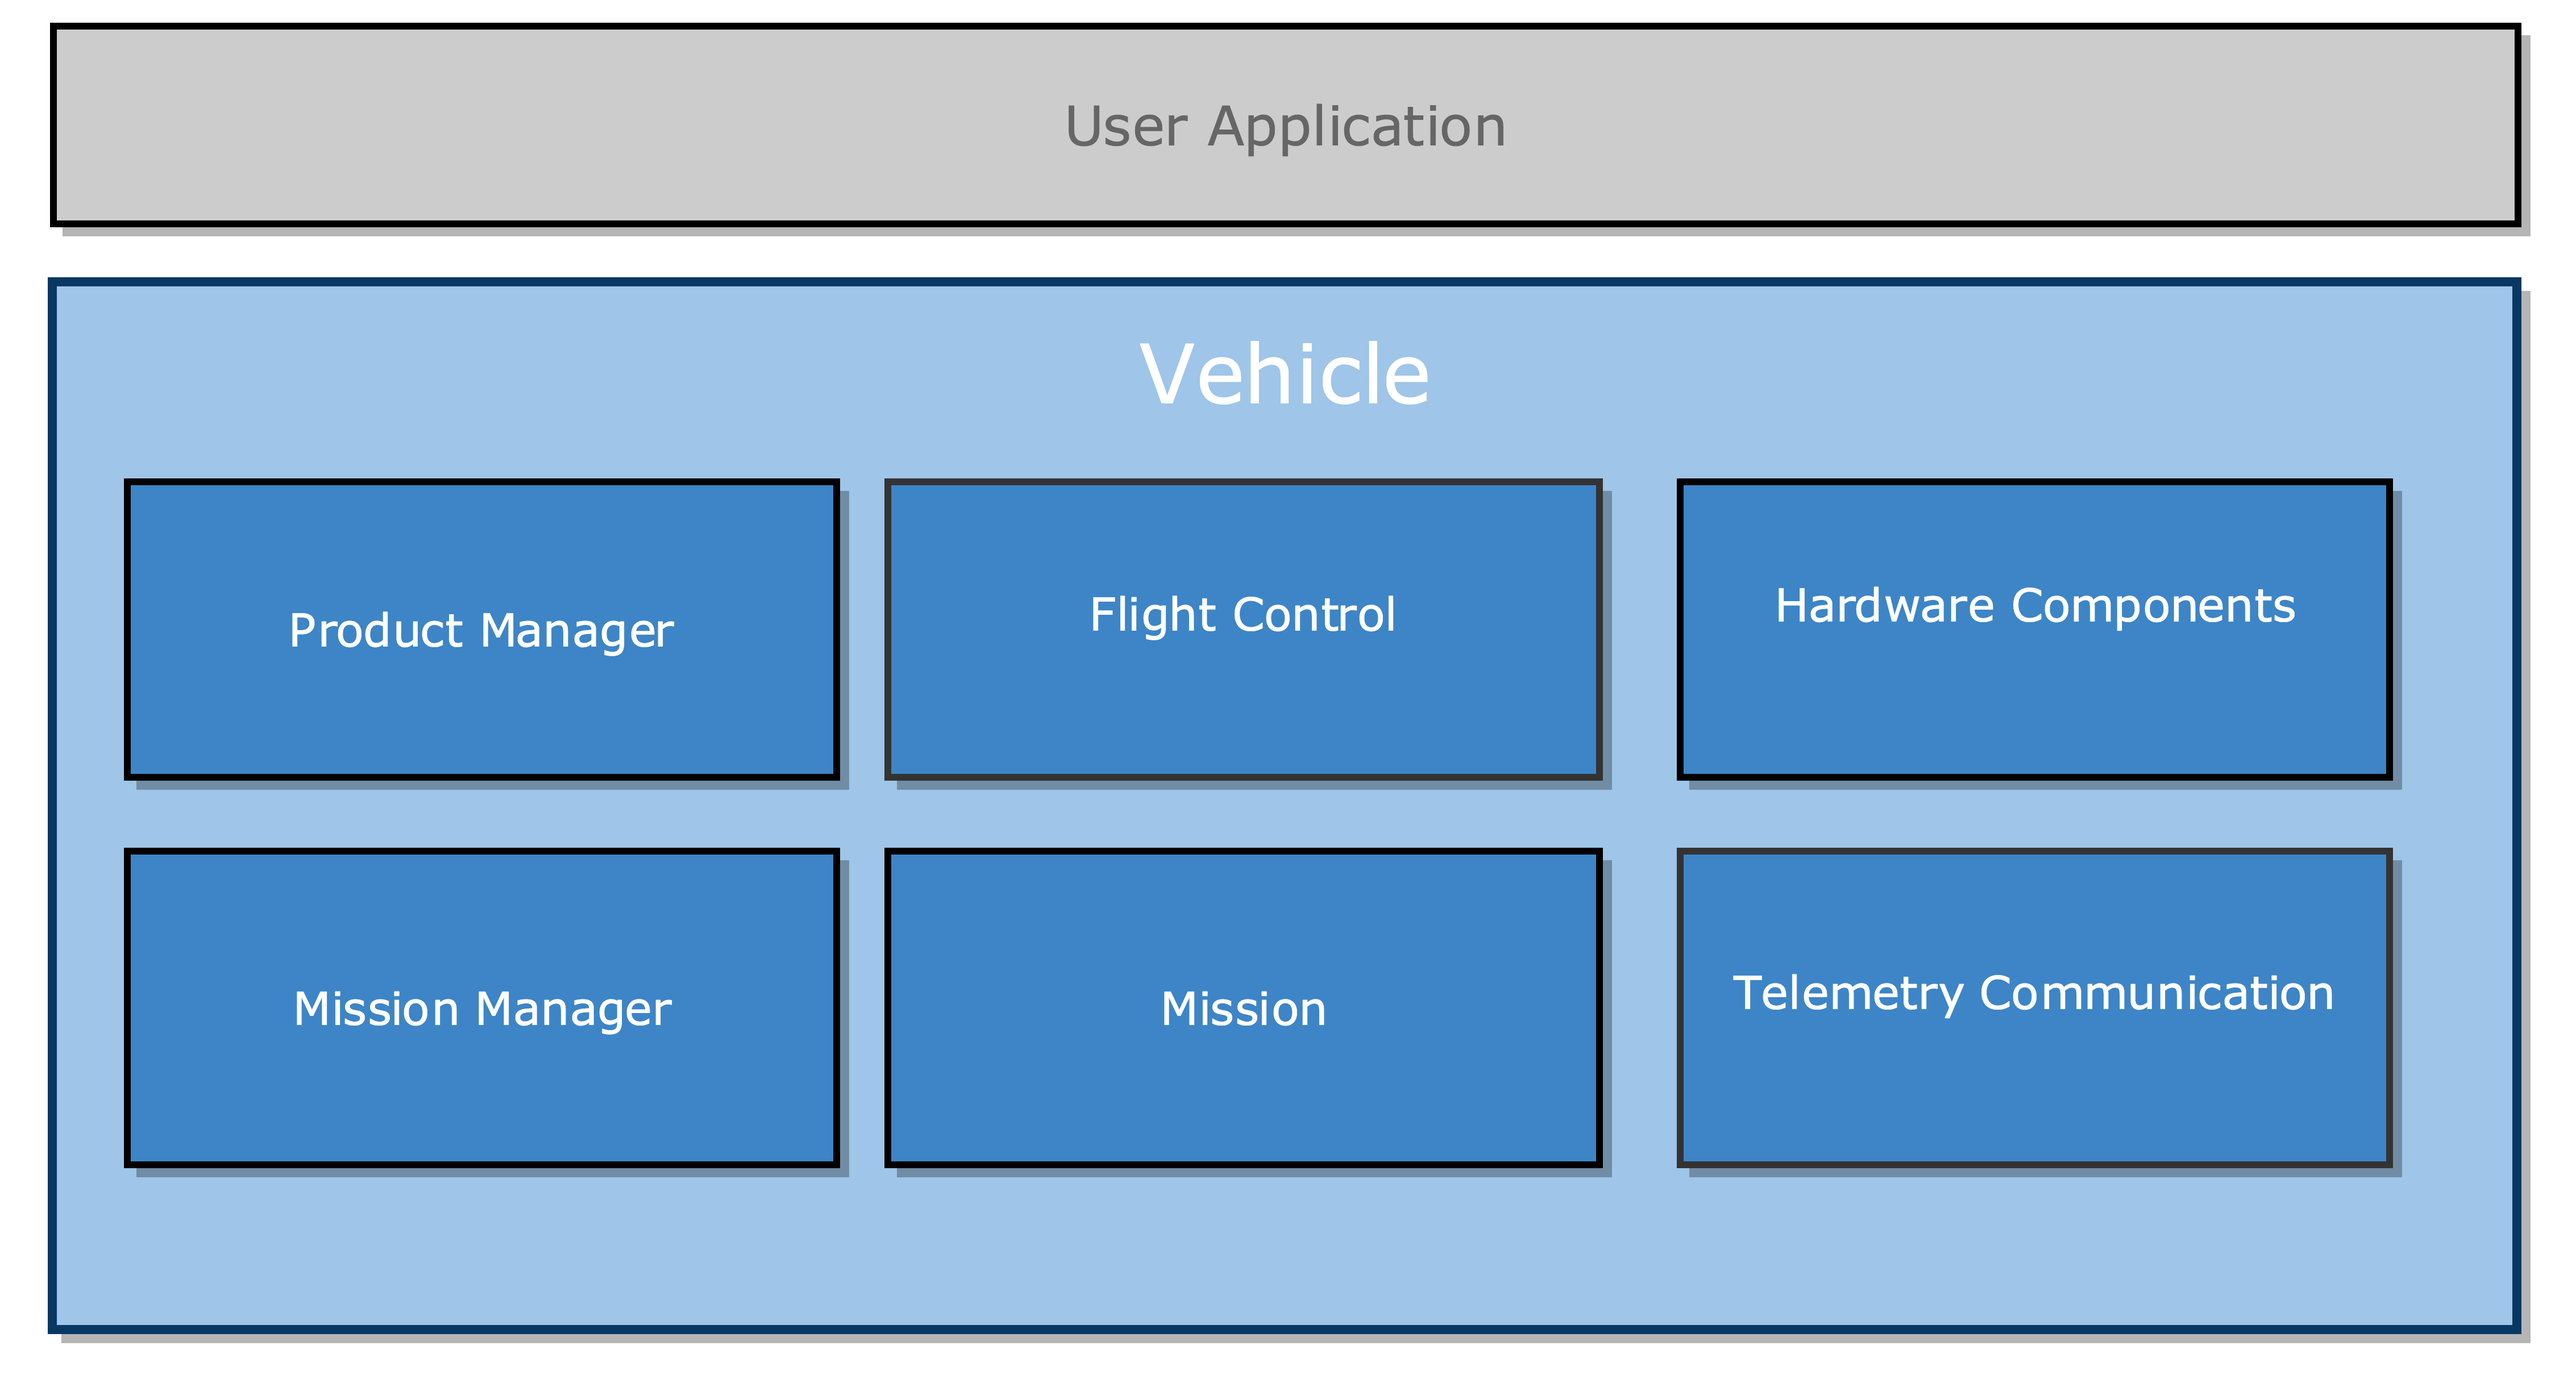
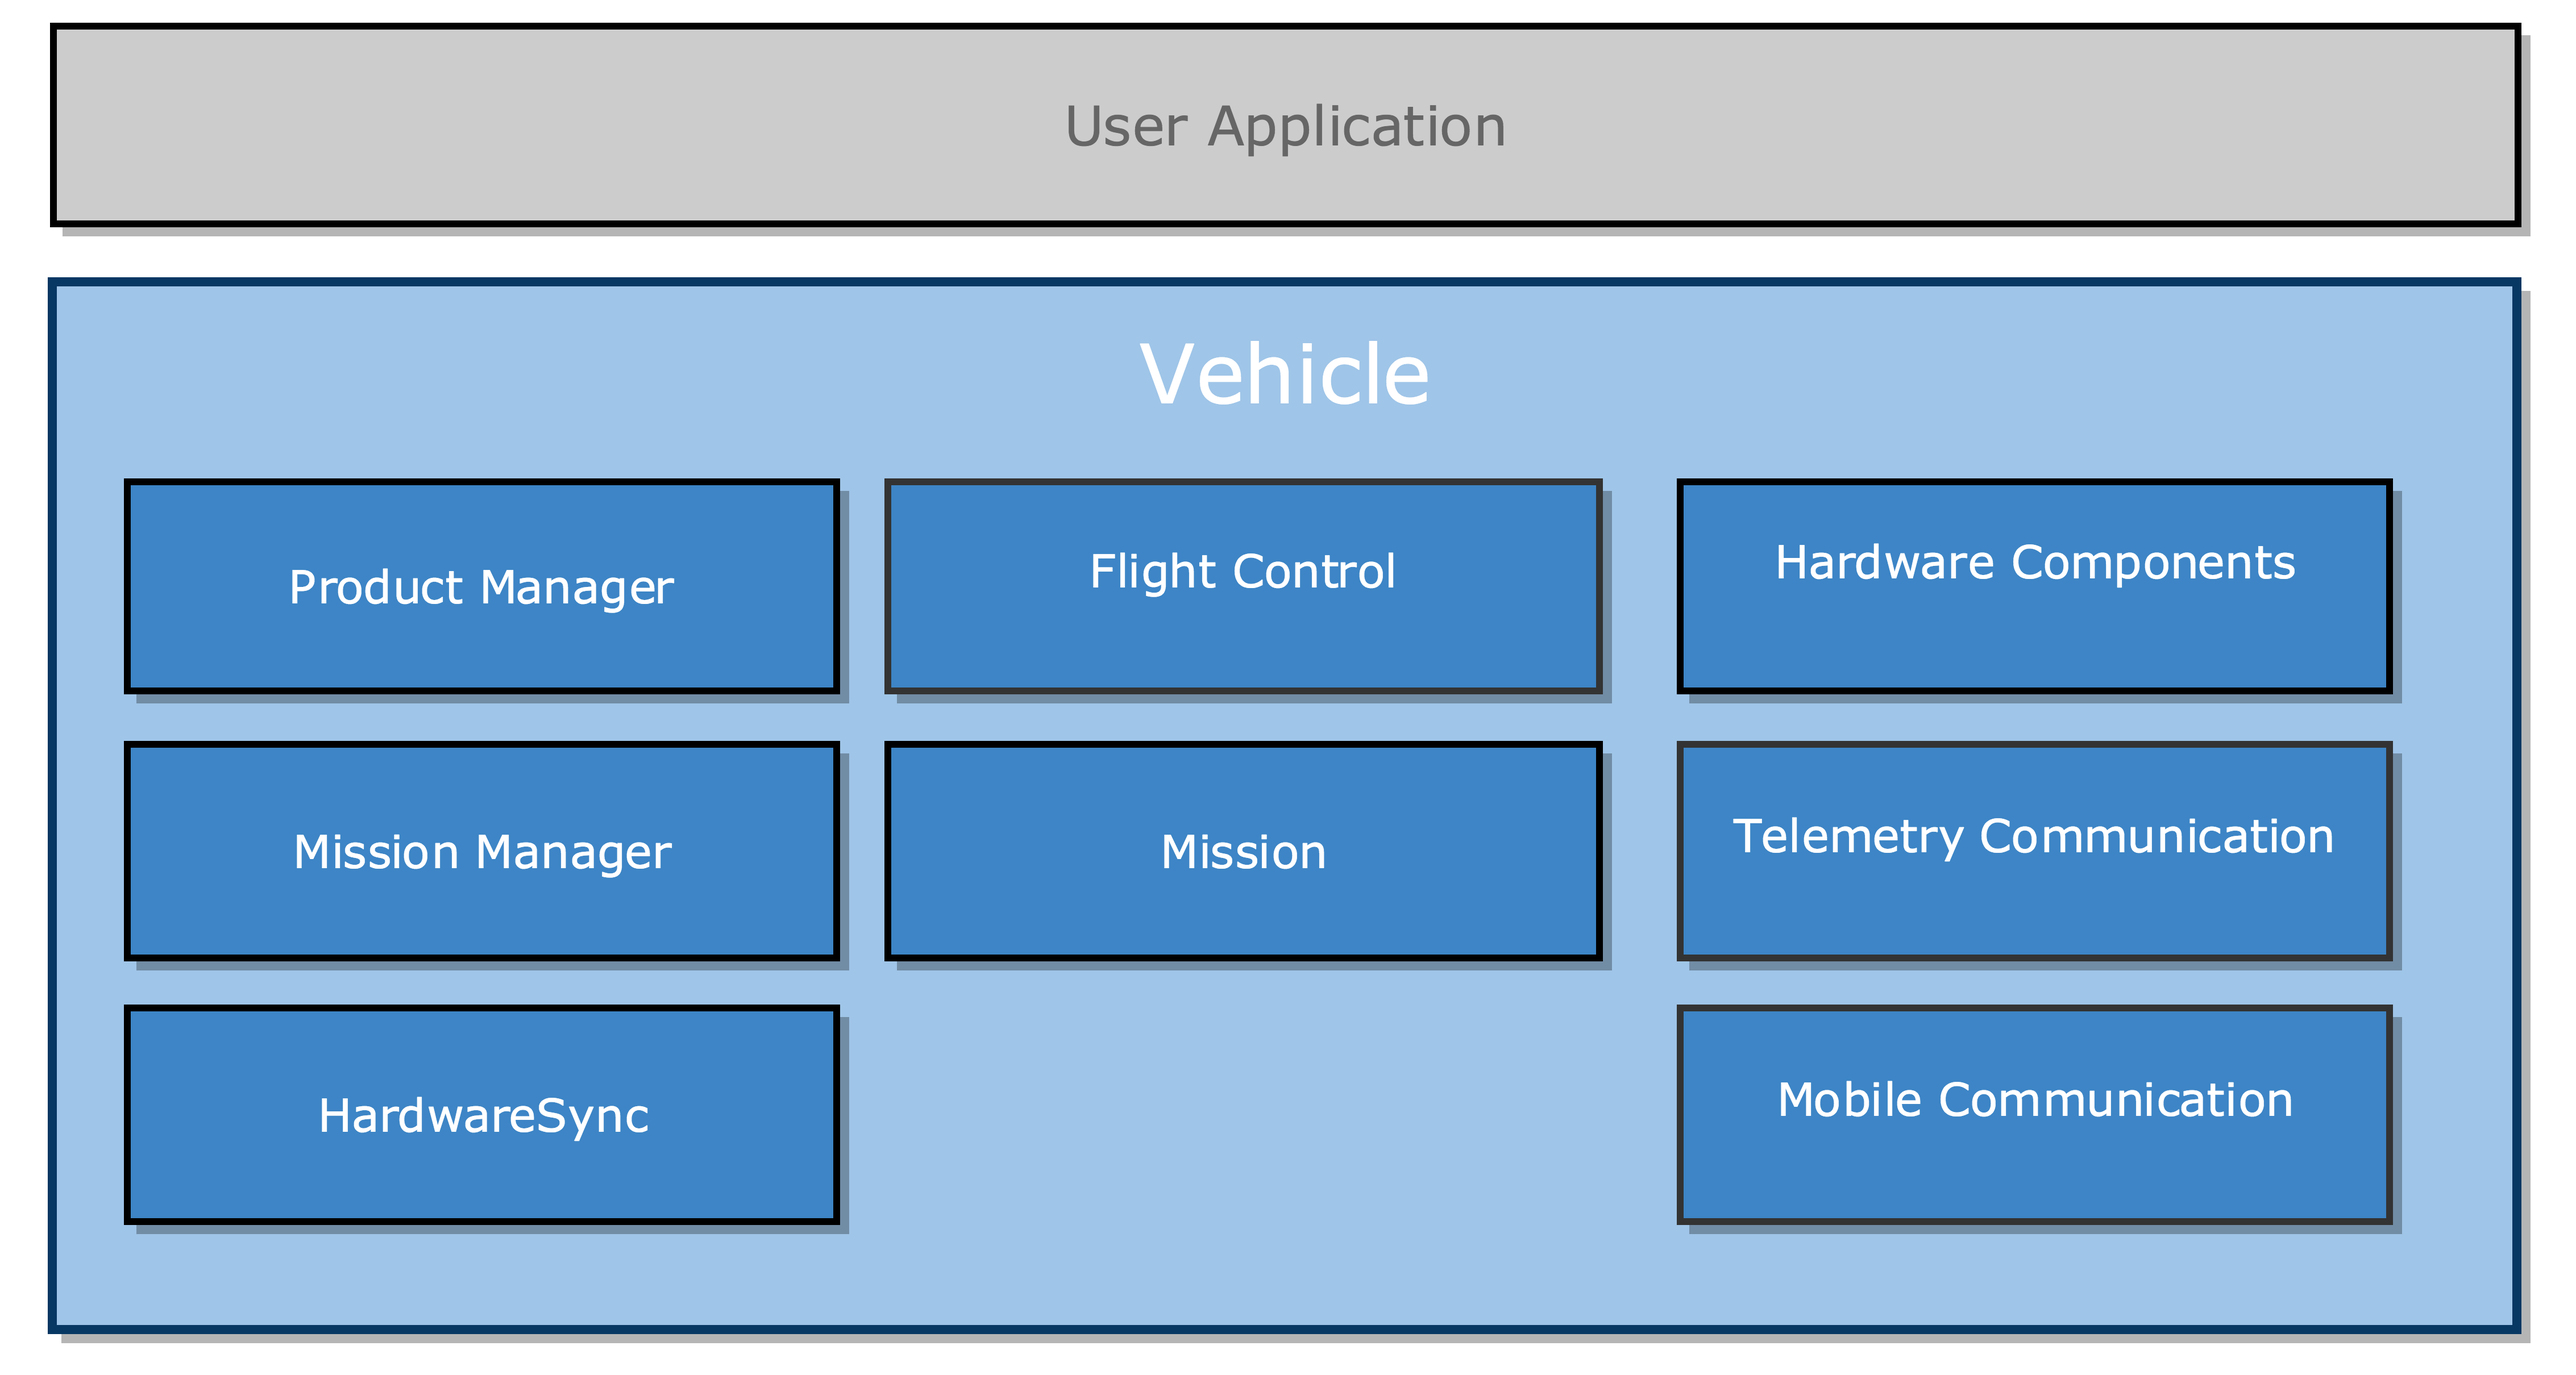
More docs on architectural overview

diff --git a/source/introduction/sdk-architectural-overview.md b/source/introduction/sdk-architectural-overview.md
@@ -27,13 +27,25 @@ User application accesses the DJI Onboard SDK through several main classes illus
 
 ## Vehicle
 
-A more detailed description of the Vehicle class and its components demonstrating communication API below. The Vehicle holds a number of components which are accessible upon aircraft activation.
+A more detailed description of the Vehicle class and its components demonstrating communication API below. The Vehicle holds a number of components which are accessible upon aircraft activation. Relationship between Vehicle and software classes via Association.
 
 [![Software Architecture](../images/common/djiosdk-3.3-Vehicle-Low-Level.png)](..images/common/djiosdk-3.3-Vehicle-Low-Level.png)
 
-Software component class providing handled camera features.
-* **Gimbal**: Software component class providing handled gimbal features.
-* **MFIO**: Software component class providing handled MFIO features.
+* **Vehicle**: Main class providing entrance to the SDK. It manages activation and encapsulation of hardware and software components.
+* **Control**: Second main component providing low level control API.
+* **Camera**:  Software component class providing handled camera features.
+* **Gimbal**:  Software component class providing handled gimbal features.
+* **MFIO**:  Software component class providing handled MFIO features.
+* **Subscribe** : Telemetry software component class providing a way to collect real time data from flight controller.
+* **Broadcast** : Telemetry software component class providing a way to collect real time data from flight controller.
+* **MobileCommunication** : Software class providing communication via mobile App.
+* **HardwareSync** : Software functionality to synchronize DJI aircraft hardware clock.
+* **Mission Manager**: Missions are controlled through the mission manager. It provides control of mission preparation, execution, termination, pausing and resumption as well as provides access to the currently executing mission.
+* **HotPoint**: Software class providing HotPoint mission API. 
+* **WayPoint**: Software class providing HotPoint mission API.
+
+
+## Communication Pipeline
 
 ### Protocol Layer
 
@@ -50,8 +62,3 @@ Software component class providing handled camera features.
 * **Gimbal**: Hardware component situated on aircraft.
 * **MFIO**: Hardware I/O component situated on aircraft.
 
-## Vehicle
-
-## Hardware Components
-
-## Mission
